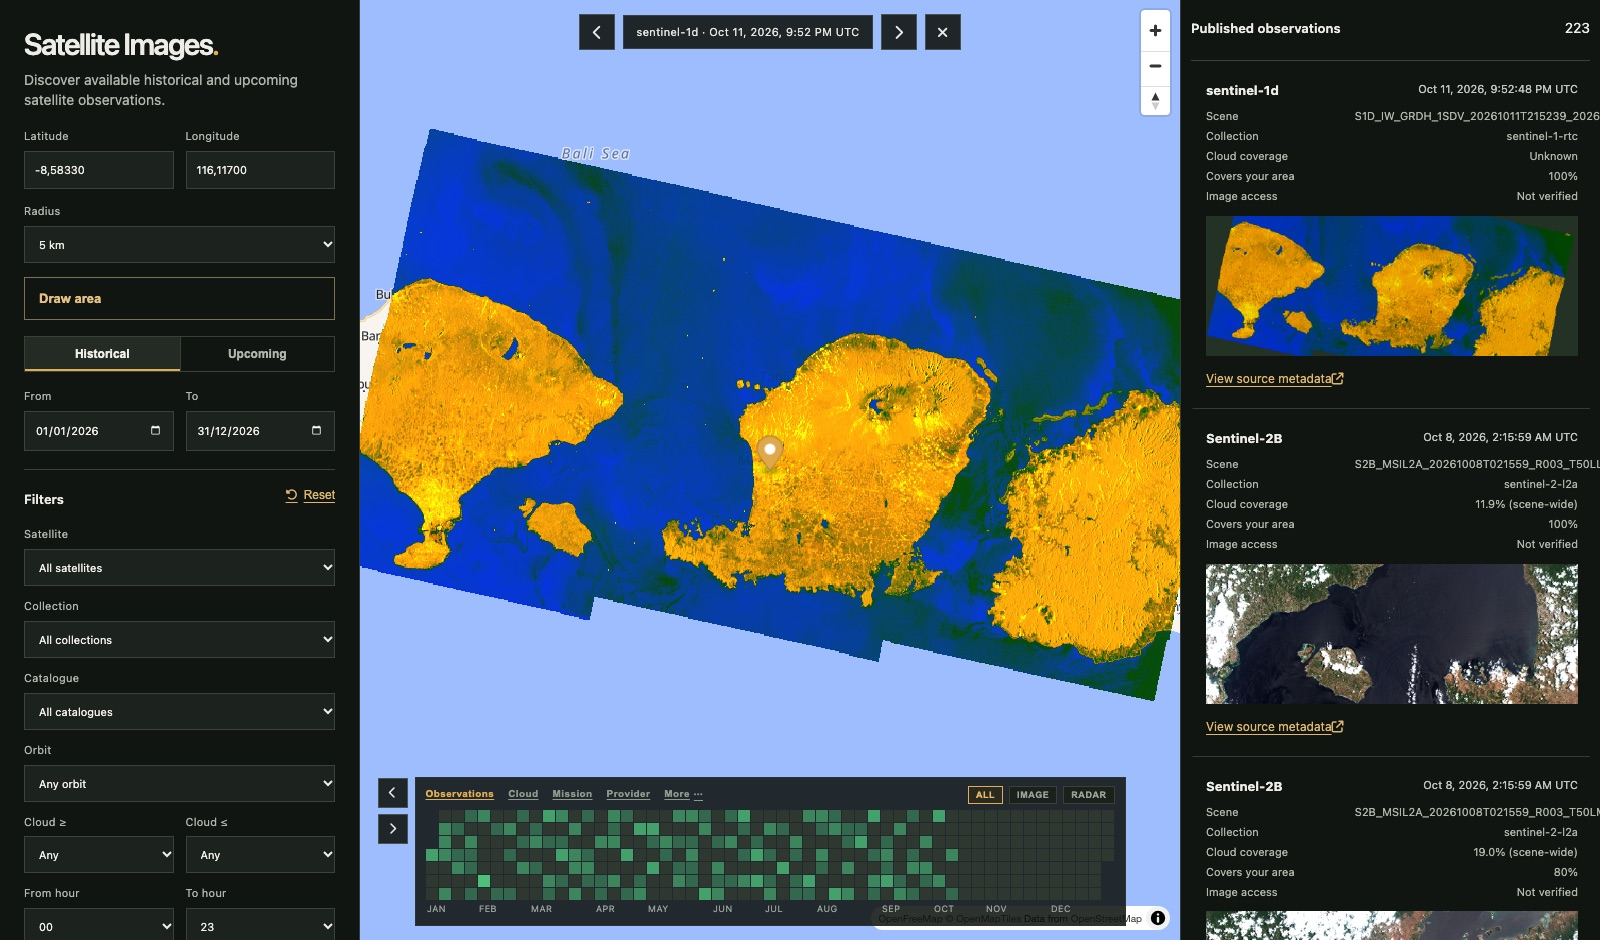
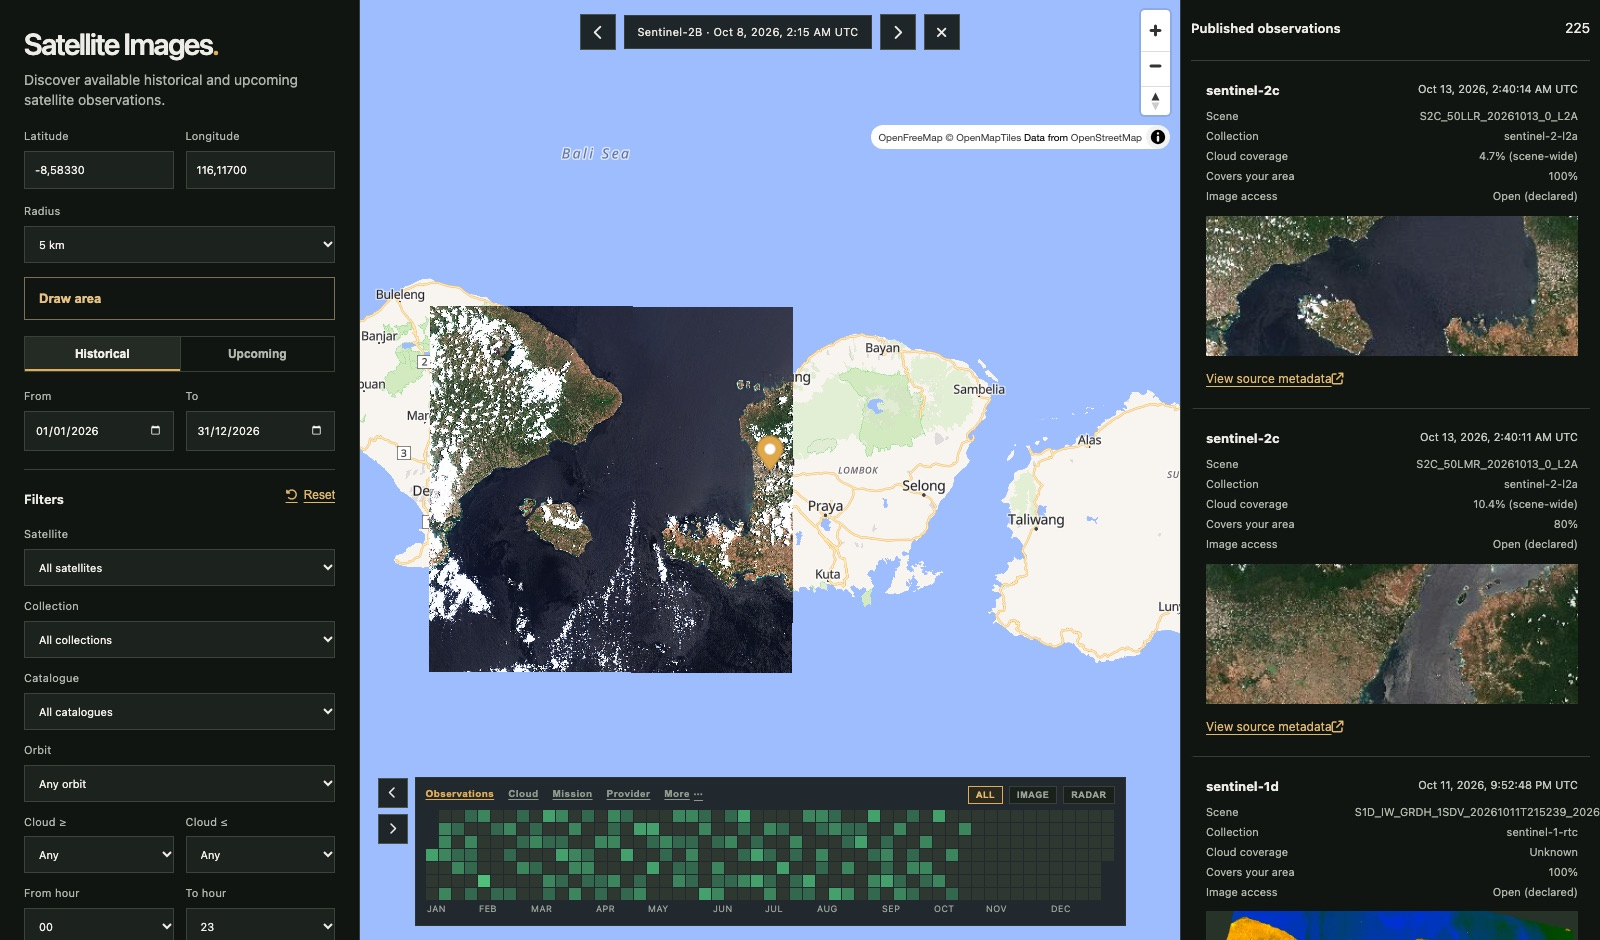
docs(readme): refresh the explorer screenshot from the live catalogues (#29)
The README image predated this session's explorer changes (declared image access
on the cards, the attribution moved to the top-right, the full-year matrix), so
it no longer represented current behaviour, and AGENTS.md asks for a re-capture
whenever the explorer UI changes.

The capture harness also needed two fixes to produce a representative image:

- It filled both date inputs, which schedules a second debounced search: on a
  slow run the capture could shoot the first (wider) search's results while the
  form showed the new window. It now waits for the card times to sit inside
  the window.
- It clicked the newest card. The overlay prefers Planetary Computer's tile
  set, which ingests a day or two after the live catalogues, so the newest
  scene often has no displayable raster and the map came out empty. It now
  picks the first optical (Sentinel-2) scene older than two days, which also
  fits inside the view so the map context stays visible.

The PNG is now gitignored too: only the committed JPEG is tracked.

diff --git a/apps/explorer/tests/e2e/capture.spec.ts b/apps/explorer/tests/e2e/capture.spec.ts
@@ -10,20 +10,33 @@ test.skip(!process.env.LIVE, "opt-in: run with LIVE=1");
 test("capture the live explorer", async ({ page }) => {
   await page.setViewportSize({ width: 1600, height: 940 });
   await page.goto("/");
-  // The view used in the README: a Landsat scene over Sumbawa with a full-year window.
+  // The view used in the README: a scene over Sumbawa with the default full-year window.
   await page.locator("#latitude").fill("-8.5833");
   await page.locator("#longitude").fill("116.1170");
   await page.locator("#date-from").fill("2026-01-01");
   await page.locator("#date-to").fill("2026-12-31");
   await page.locator("#date-to").dispatchEvent("change");
-  await expect.poll(async () => page.locator("#results li").count(), { timeout: 120_000 })
+  await expect.poll(async () => page.locator("#results li").count(), { timeout: 25_000 })
     .toBeGreaterThan(0);
-  await expect(page.locator("#coverage")).toContainText(/planetary-computer|earth-search/, { timeout: 120_000 });
-  await page.waitForTimeout(3000);
-  // Put the newest image on the map so the screenshot shows the overlay, footprint and card.
-  await page.locator("#results img").first().click();
+  await expect(page.locator("#coverage")).toContainText(/planetary-computer|earth-search/, { timeout: 25_000 });
+  await page.waitForTimeout(2000);
+  // Put an image on the map so the screenshot shows the overlay, footprint and card. Prefer an
+  // optical scene the tile service has already ingested: the overlay uses Planetary Computer's
+  // tile set, which lags the live catalogues by a day or two, so the newest scene can have no
+  // displayable raster. An optical tile also fits inside the view, leaving map context visible.
+  const cutoff = new Date(Date.now() - 2 * 86400000).toISOString().slice(0, 10);
+  const index = await page.locator("#results li").evaluateAll((nodes, args) => {
+    const [limit, collection] = args as [string, string];
+    return nodes.findIndex((node) => {
+      const acquired = (node.querySelector("time") as HTMLTimeElement | null)?.dateTime ?? "";
+      return acquired !== "" && acquired.slice(0, 10) <= limit && (node.textContent ?? "").includes(collection);
+    });
+  }, [cutoff, "sentinel-2-l2a"] as [string, string]);
+  expect(index).toBeGreaterThanOrEqual(0);
+  await page.locator("#results img").nth(index).click();
   await expect(page.locator("#map-preview")).toBeVisible();
   await page.waitForTimeout(6000);
   await page.screenshot({ path: "../../docs/assets/explorer.png" });
-  console.log("saved docs/assets/explorer.png |", await page.locator("#coverage").textContent());
+  console.log("saved docs/assets/explorer.png |", await page.locator("#coverage").textContent(),
+    "| overlay index", index, "for cutoff", cutoff);
 });

diff --git a/README.md b/README.md
@@ -16,7 +16,7 @@ A cross-language, open-source satellite **catalogue discovery SDK**. Search exis
 The MapLibre explorer, built from `main` and deployed to GitHub Pages. Deployment is a
 **manually dispatched, reviewed** build (`npm run check` runs first), not every push.
 
-![The explorer for a point off Sumbawa with a 2026 window: a left panel for location, month and filters; a MapLibre map with a Landsat scene placed on its footprint, a marker and a day matrix of 12x12 px cells labelled by month with metric links and All/Image/Radar quick filters; and a right panel of result cards listing scene id, collection, cloud cover, resolution and coverage](docs/assets/explorer.jpg)
+![The explorer for a point off Sumbawa with a 2026 window: a left panel with location, radius, date range and filters; a MapLibre map with a satellite scene placed on its footprint, a marker, the basemap attribution, and a full-year day matrix with month labels, metric links and All/Image/Radar quick filters; and a right panel of result cards listing scene id, collection, cloud cover, resolution, coverage and image access](docs/assets/explorer.jpg)
 
 ## What it does
 

diff --git a/CHANGELOG.md b/CHANGELOG.md
@@ -53,6 +53,7 @@ releases share the same version number as the repository tag (`vMAJOR.MINOR.PATC
 - Antimeridian-crossing searches are split into two bounding boxes instead of being
   rejected; the page budget now applies per box, so a split query can return up to
   two times `maxPages` pages.
+- The README screenshot was regenerated from the live catalogues after the explorer changes (and the capture now picks a scene the tile service has already ingested, so the map overlay in the image is real rather than an empty frame).
 - Explorer: upgraded to `maplibre-gl` 6. Its ESM build has no default export, so the
   import is now a namespace import, and it loads its worker from a URL it computes at
   runtime — which bundlers do not follow, so the built app requested a path that did not
